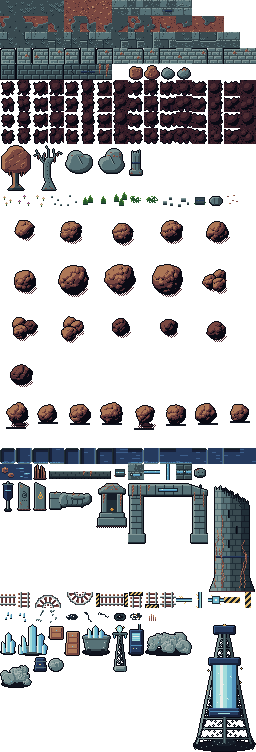
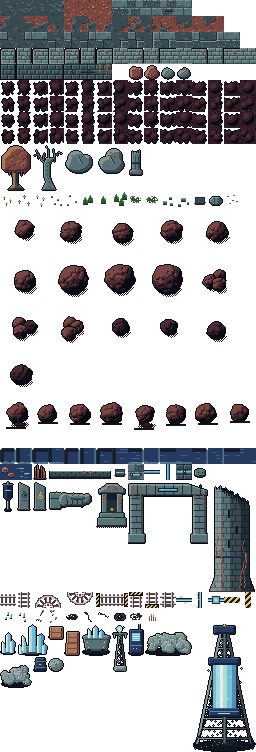
Polish zones 3-5: shadows, glints, quarry dust, darker quarry rock crowns
Claude-Session: https://claude.ai/code/session_01YABBJVPWvaqtn34m5VQVCp

diff --git a/DESIGN.md b/DESIGN.md
@@ -163,11 +163,11 @@ An ARPG where your starter creature is your class. You're a trainer who sends a 
 ### Art direction (world checklist; every zone follows it)
 - **Light from the top left.** Highlights on top/left faces, shade on bottom/right faces, cast shadows fall down-right.
 - **Every standing thing has a shadow.** Tiles: a `GroundShadows` node (`scripts/world/ground_shadows.gd`) above the ground/decoration layers and below `World`, with the zone's obstacle layers as `caster_layers`; it builds the shadows from the tiles' pixels (an oval under a narrow foot like a tree or lamp, a band along the base plus a sliver down the right side of anything wide or tall like a house, wall or the forest edge). Characters and pickups draw their own small oval. One style everywhere: Apollo outline `#090A14` with a softer 1 px rim; `core_alpha` 0.5 on bright ground (towns), ~0.66 on dark grass or stone (Ruins Edge, the fen) so shadows still read. Never paint shadows into a prop's tile unless the whole set does it the same way.
-- **Value hierarchy:** ground darkest-to-mid and low in contrast, props and walls a step lighter, creatures, enemies, pickups and attacks brightest and most saturated. If a floor shares its lightest colour with an enemy (e.g. the Wardens' `#819796`), drop that highlight one Apollo step on the floor. Big paved areas get their highlights stepped down so they don't shimmer.
+- **Value hierarchy:** ground darkest-to-mid and low in contrast, props and walls a step lighter, creatures, enemies, pickups and attacks brightest and most saturated. If a floor shares its lightest colour with an enemy (e.g. the Wardens' `#819796`), drop that highlight one Apollo step on the floor. Blocking walls (forest, rock heaps) sit darker than the walkable floor: the quarry's rock crowns were stepped down one Apollo shade for this. Big paved areas get their highlights stepped down so they don't shimmer.
 - **Props make sense where they are.** Crates, barrels and sacks sit in small clusters against something (a stall, a house wall, a workbench), never alone in a field or the middle of a square. Lamps/pylons line roads or mark plaza corners. Debris (rubble, pebbles) only right beside what broke (a wreck, a fallen wall); a lived-in town square is swept. Berries by bushes, waystones or rest spots. Lore stones at landmarks. Nothing overlaps walls, trees, water or paths.
 - **Edges aren't razor straight.** Natural paths meander; where a diagonal path steps, grass tufts fill the inner corners. Man-made paving may be straight. Water banks use the corner-shaped tiles, not hard squares (except built stone basins).
 - **Depth:** the y-sorted `World` layer lets canopies overlap what stands behind them; walls and the forest edge get contact shade at their base (the `GroundShadows` band does this).
-- **Small ambient life**, cheap and faint, never competing with the fight: `AmbientLife` on the zone camera (pollen in sunny meadows, leaves under old woods, fireflies over a fen; `AmbientDrift` for snow/petals) and `WaterGlints` on open water.
+- **Small ambient life**, cheap and faint, never competing with the fight: `AmbientLife` on the zone camera (pollen in sunny meadows, leaves under old woods, fireflies over a fen, grit dust in the quarry; `AmbientDrift` for snow/petals, never both on one camera) and `WaterGlints` on open water.
 
 ## Combat
 - Real-time, 2D
